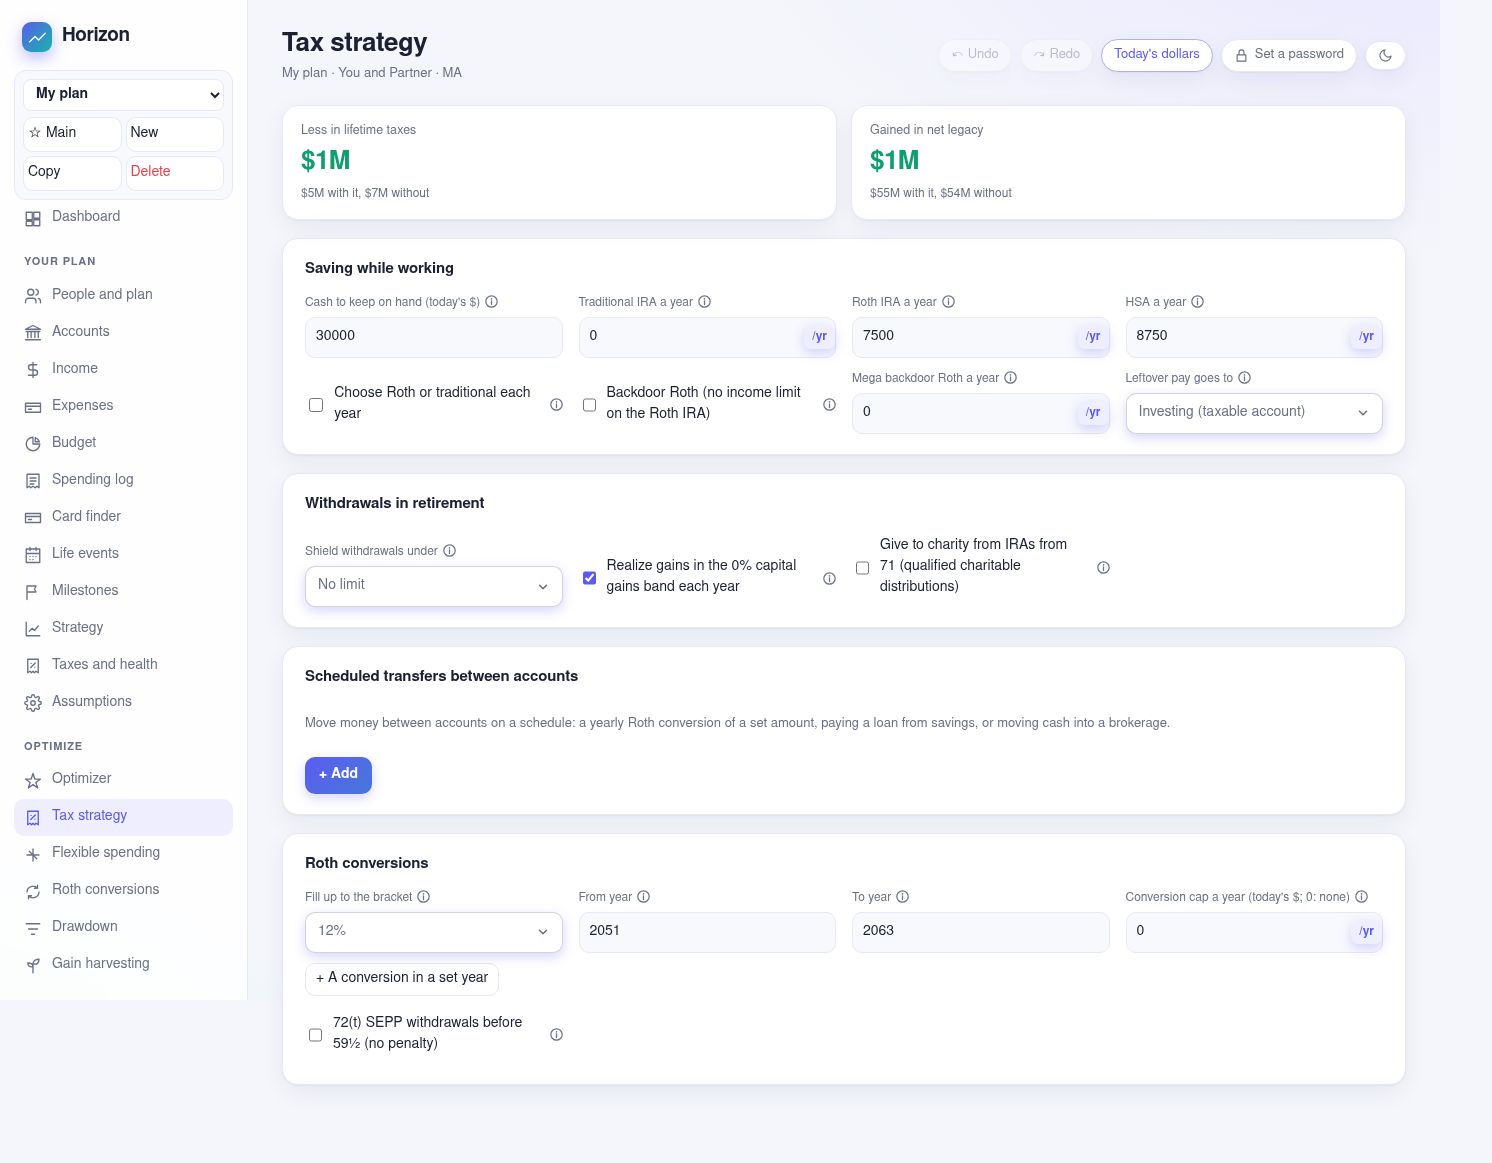
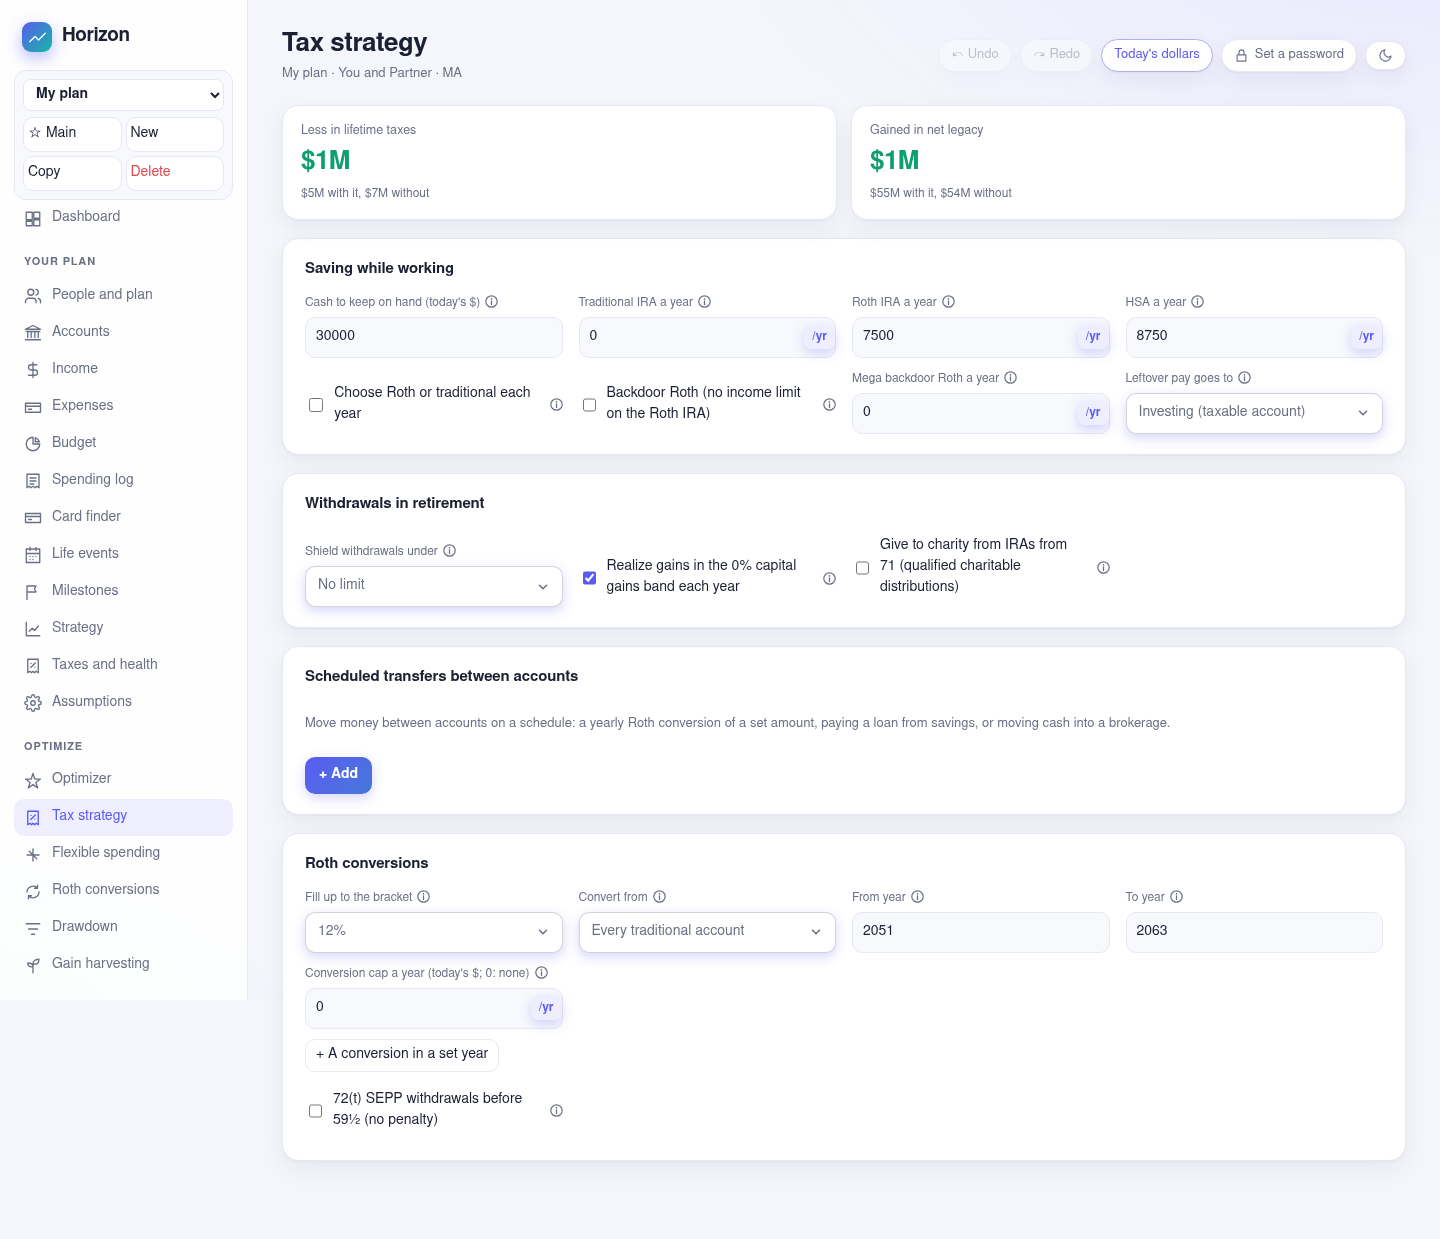
Withdrawal shielding in a range of years; Roth conversions from a chosen account
Claude-Session: https://claude.ai/code/session_01HeJ1UAxjk6MGEszesTwGbu

diff --git a/10_app/code/src/pages/Editors.tsx b/10_app/code/src/pages/Editors.tsx
@@ -884,6 +884,8 @@ export function StrategyPage({ focus }: { focus?: StrategyFocus } = {}) {
             onChange={(v) => update((p) => { p.strategy.withdrawalMethod = v; })} />}
           {show('tax', 'drawdown') && <Select label="Shield withdrawals under" value={s.shield ?? 'none'} options={[['none', 'No limit'], ['bracket12', 'The 12% bracket'], ['bracket22', 'The 22% bracket'], ['bracket24', 'The 24% bracket'], ['irmaa', 'The first IRMAA tier'], ['aca', 'The ACA credit limit (400% FPL)']]}
             onChange={(v) => update((p) => { p.strategy.shield = v; })} />}
+          {show('tax', 'drawdown') && s.shield && s.shield !== 'none' && <Num label="Shield from year (0 for the start)" value={s.shieldFrom ?? 0} onChange={(v) => update((p) => { p.strategy.shieldFrom = v || undefined; })} />}
+          {show('tax', 'drawdown') && s.shield && s.shield !== 'none' && <Num label="Shield until year (0 for the end)" value={s.shieldTo ?? 0} onChange={(v) => update((p) => { p.strategy.shieldTo = v || undefined; })} />}
           {show('tax', 'drawdown') && s.shield === 'aca' && <Num label="Keep income under this multiple of the poverty line" value={s.fplMultiple ?? 4} onChange={(v) => update((p) => { p.strategy.fplMultiple = v > 0 ? v : undefined; })} />}
           {show('harvest', 'tax') && <Check label="Realize gains in the 0% capital gains band each year" value={!!s.harvestZeroGains} onChange={(v) => update((p) => { p.strategy.harvestZeroGains = v; })} />}
           {show('drawdown', 'flex') && <Select label="Spending rule" value={s.spending} options={[['expenses', 'The plan\'s expenses'], ['fixedPercent', 'Fixed share of the portfolio'], ['guardrails', 'Guardrails (±10% when the rate drifts 20%)'], ['vpw', 'Variable percentage (spend down by the plan end)'], ['textbook', 'Textbook rule (a share of the first year, then with inflation)'], ['cape', 'CAPE-based (more when stocks are cheap)']]}
@@ -933,6 +935,7 @@ export function StrategyPage({ focus }: { focus?: StrategyFocus } = {}) {
         <div className="grid">
           <Select label="Fill up to the bracket" value={String(s.rothConversionBracket)} options={[['0', 'No conversions'], ['0.1', '10%'], ['0.12', '12%'], ['0.22', '22%'], ['0.24', '24%'], ['0.32', '32%']]}
             onChange={(v) => update((p) => { p.strategy.rothConversionBracket = Number(v); })} />
+          {s.rothConversionBracket > 0 && <Select label="Convert from" value={s.rothConversionSource ?? ''} options={[['', 'Every traditional account'], ...plan.accounts.filter((x) => x.kind === 'traditional').map((x) => [x.id, x.name] as [string, string])]} onChange={(v) => update((p) => { p.strategy.rothConversionSource = v || undefined; })} />}
           <Num label="From year" value={s.rothConversionStart ?? plan.startYear} onChange={(v) => update((p) => { p.strategy.rothConversionStart = v; })} />
           <Num label="To year" value={s.rothConversionEnd ?? plan.startYear + 30} onChange={(v) => update((p) => { p.strategy.rothConversionEnd = v; })} />
           <Num label="Conversion cap a year (today's $; 0: none)" value={s.rothConversionCap ?? 0} onChange={(v) => update((p) => { p.strategy.rothConversionCap = v || undefined; })} />

diff --git a/10_app/code/src/engine/simulate.ts b/10_app/code/src/engine/simulate.ts
@@ -839,7 +839,7 @@ function simulateOnce(plan: Plan, path: ReturnPath, rothByYear?: Record<number, 
     if (s.rothConversionBracket > 0 && y >= (s.rothConversionStart ?? 0) && y <= (s.rothConversionEnd ?? 9999)) {
       const base = computeTaxNow(0, 0, 0, 0);
       const room = bracketTop(s.rothConversionBracket, status, y, ri) - base.ordinaryTaxable;
-      const trad = accounts.filter((x) => x.kind === 'traditional' && isAlive(x.ownerId));
+      const trad = accounts.filter((x) => x.kind === 'traditional' && isAlive(x.ownerId) && (!s.rothConversionSource || x.id === s.rothConversionSource));
       const avail = trad.reduce((t, x) => t + Math.max(0, state.balance[x.id]), 0);
       conversion = Math.max(0, Math.min(room, avail, s.rothConversionCap ? s.rothConversionCap * index : Infinity));
       let left = conversion;
@@ -998,7 +998,7 @@ function simulateOnce(plan: Plan, path: ReturnPath, rothByYear?: Record<number, 
           if (left <= 0) break;
           let avail = state.balance[x.id];
           if (step === 'cash') avail = Math.max(0, avail);
-          if (step === 'traditional' && s.shield && s.shield !== 'none') avail = Math.min(avail, shieldRoom(traditional));
+          if (step === 'traditional' && s.shield && s.shield !== 'none' && y >= (s.shieldFrom ?? -Infinity) && y <= (s.shieldTo ?? Infinity)) avail = Math.min(avail, shieldRoom(traditional));
           const take = Math.min(left, avail);
           if (take <= 0) continue;
           state.balance[x.id] -= take;

diff --git a/10_app/code/src/engine/types.ts b/10_app/code/src/engine/types.ts
@@ -337,6 +337,11 @@ export interface Strategy {
   /** Shield 'aca': the multiple of the poverty line to keep income under (4 where unset; 1.38 for Medicaid, 2.5 for
    * cost-sharing reductions). */
   fplMultiple?: number;
+  /** Withdrawal shielding only in these years (the whole plan where unset). */
+  shieldFrom?: number;
+  shieldTo?: number;
+  /** Roth conversions from this traditional account only (every one where unset). */
+  rothConversionSource?: string;
   shield?: 'none' | 'bracket12' | 'bracket22' | 'bracket24' | 'irmaa' | 'aca';
   /** Conversions of a set amount (today's dollars) in a set year, on top of the bracket-filling ones. */
   manualConversions?: { year: number; amount: number }[];

diff --git a/10_app/code/src/help.ts b/10_app/code/src/help.ts
@@ -325,4 +325,7 @@ export const HELP: Record<string, string> = {
   "Flex applies to": "Cut only the discretionary share of each expense, or all spending.",
   "Flex from year (0 for the start)": "The first year the rules apply.",
   "Flex until year (0 for the end)": "The last year the rules apply.",
+  "Shield from year (0 for the start)": "The first year withdrawal shielding caps traditional withdrawals.",
+  "Shield until year (0 for the end)": "The last year withdrawal shielding applies.",
+  "Convert from": "The traditional account conversions draw from, or every one in turn.",
 };

diff --git a/todo.md b/todo.md
@@ -56,7 +56,6 @@ Asked by Bryce on 2026-11-23, in the order to build.
 ## From the live ProjectionLab app (signed in 2026-11-23; captures in 99_overall/output/pl_live/)
 - Estate: heirs' tax rate on tax-deferred accounts, capital gains rate, stepped-up basis, liquidation cost, administrative cost, the final tax return, estate drag, and a breakdown by account.
 - Tax analytics: by income item, gross, tax, net, and effective rate; notable events (penalized distributions, RMDs, Roth conversions, tax-deferred distributions).
-- Withdrawal shielding and Roth conversions: time ranges; the Roth conversion source account.
 - Rates: a historical sequence (a chosen start year) as the plan's own projection.
 - Tax settings: withholding rates on tax-deferred and taxable withdrawals; extra flat rates on income and capital gains.
 - Metrics: effective rate including return of capital, non-taxable sale proceeds, tax-free withdrawals, local income tax, and property tax; spending including mortgage payments, mortgage principal, consumer debt principal.
